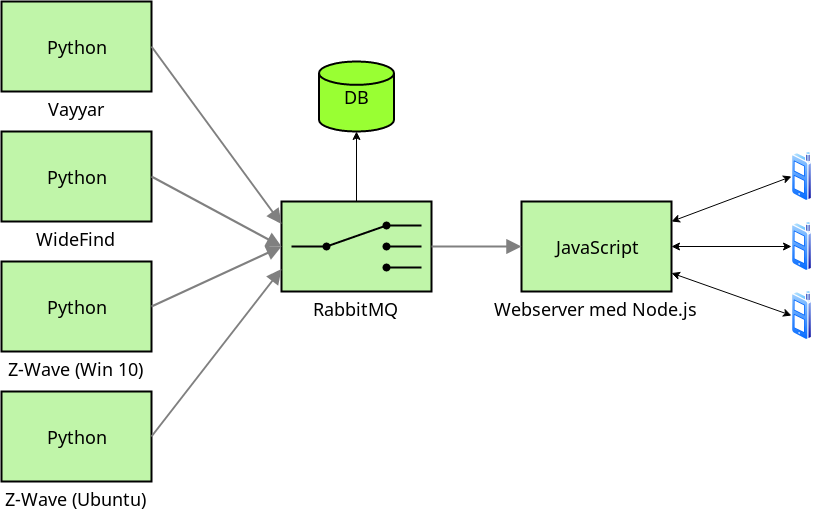
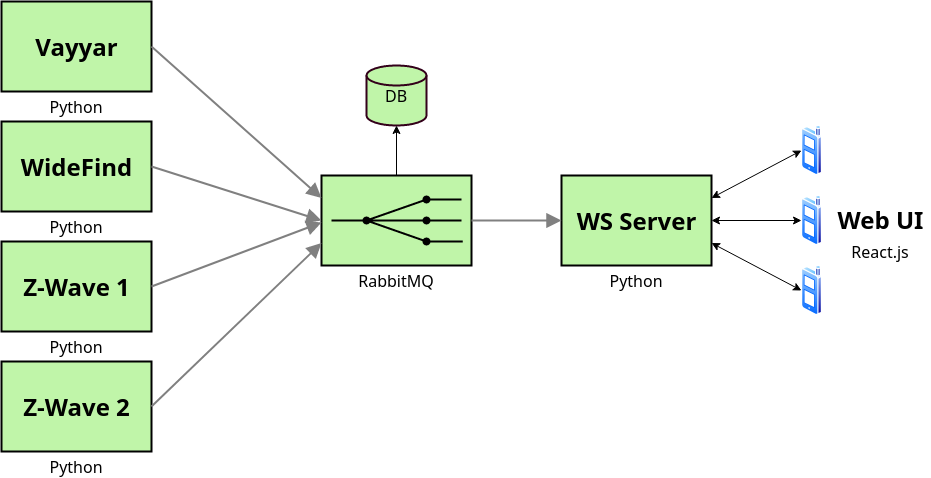
updated consumer docs

diff --git a/docs/consumers/web_ui.md b/docs/consumers/web_ui.md
@@ -1,27 +1,25 @@
 # Web UI
 
-The main user interface is a responsive web app written in React with a Node.js
-backend. By writing the app in React it is possible to easily separate the
-sensors into different modules that can be developed separately. The app is
+The main user interface is a responsive web app written in React. The app is
 bootstrapped with Facebook's [create-react-app](https://create-react-app.dev). 
 
-The Node.js backend provides a websocket server which the front-end is
-connected to. The backend is connected to the RabbitMQ server and broadcasts
-incoming messages over the websocket in real-time to all connected clients.
+## Starting the development server
+To start the development server go to the `web_ui` folder in `/src` and run
 
-## Configuration
-Place a file named `config.toml` in the same directory as `server.js` with the
-following information.
-
-```toml
-[rabbitmq]
-username = "my_username"
-password = "my_password"
-host = "my_host"
+```bash
+npm start
 ```
 
+## Deployment
+To build a minified version ready for production run
+```bash
+npm run build
+```
+This will output a deployable version to the `build/` folder.
 
-## Future improvements
+## Good to know
 
-* Change producer settings from the client front-end.
-
+Each sensor is contained in its own React component. The websocket updates
+are passed to each sensor module as a prop. The websocket connection is
+done in the parent `SensorDisplay` component, updates are stored in
+React state.

diff --git a/docs/consumers/ws_server.md b/docs/consumers/ws_server.md
@@ -1,0 +1,38 @@
+# ws_server 
+This module provides a websocket server which the web client connects to. The
+server consumes data from RabbitMQ and forwards it to all connected websocket
+clients. It is fully `asyncio` based. Configuration is done through a
+`config.toml` file.
+
+## Starting the server
+
+To start the server run:
+
+```bash
+python ws_server.py
+```
+Make sure you have a valid config file before starting. 
+
+## Configuration
+The module will look for a file named `config.toml` in the root directory.
+RMQ and websocket settings are configured here.
+
+
+The config file is structured as the example below.
+
+
+```toml
+[rabbitmq]
+username = "my_username"
+password = "my_password"
+host = "my_host"
+
+[websocket]
+ip = "0.0.0.0"
+port = 3030
+```
+
+## Current Limitations
+
+- Better queue management configuration possibilites will be added.
+- Proper exception handling is not yet in place.
